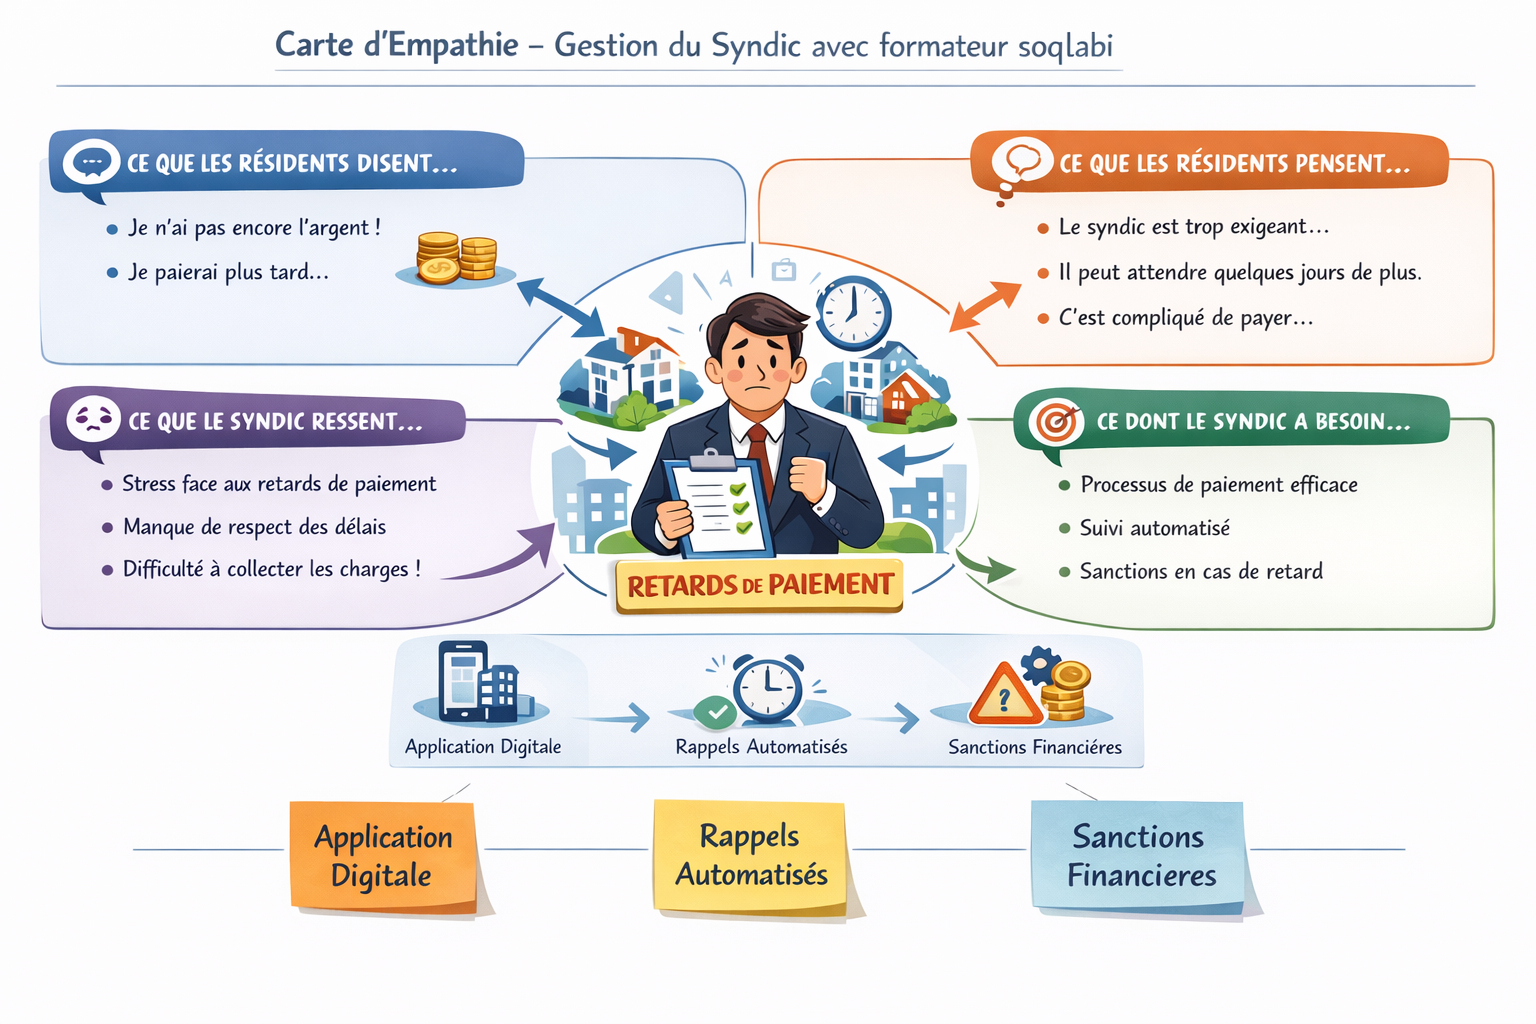
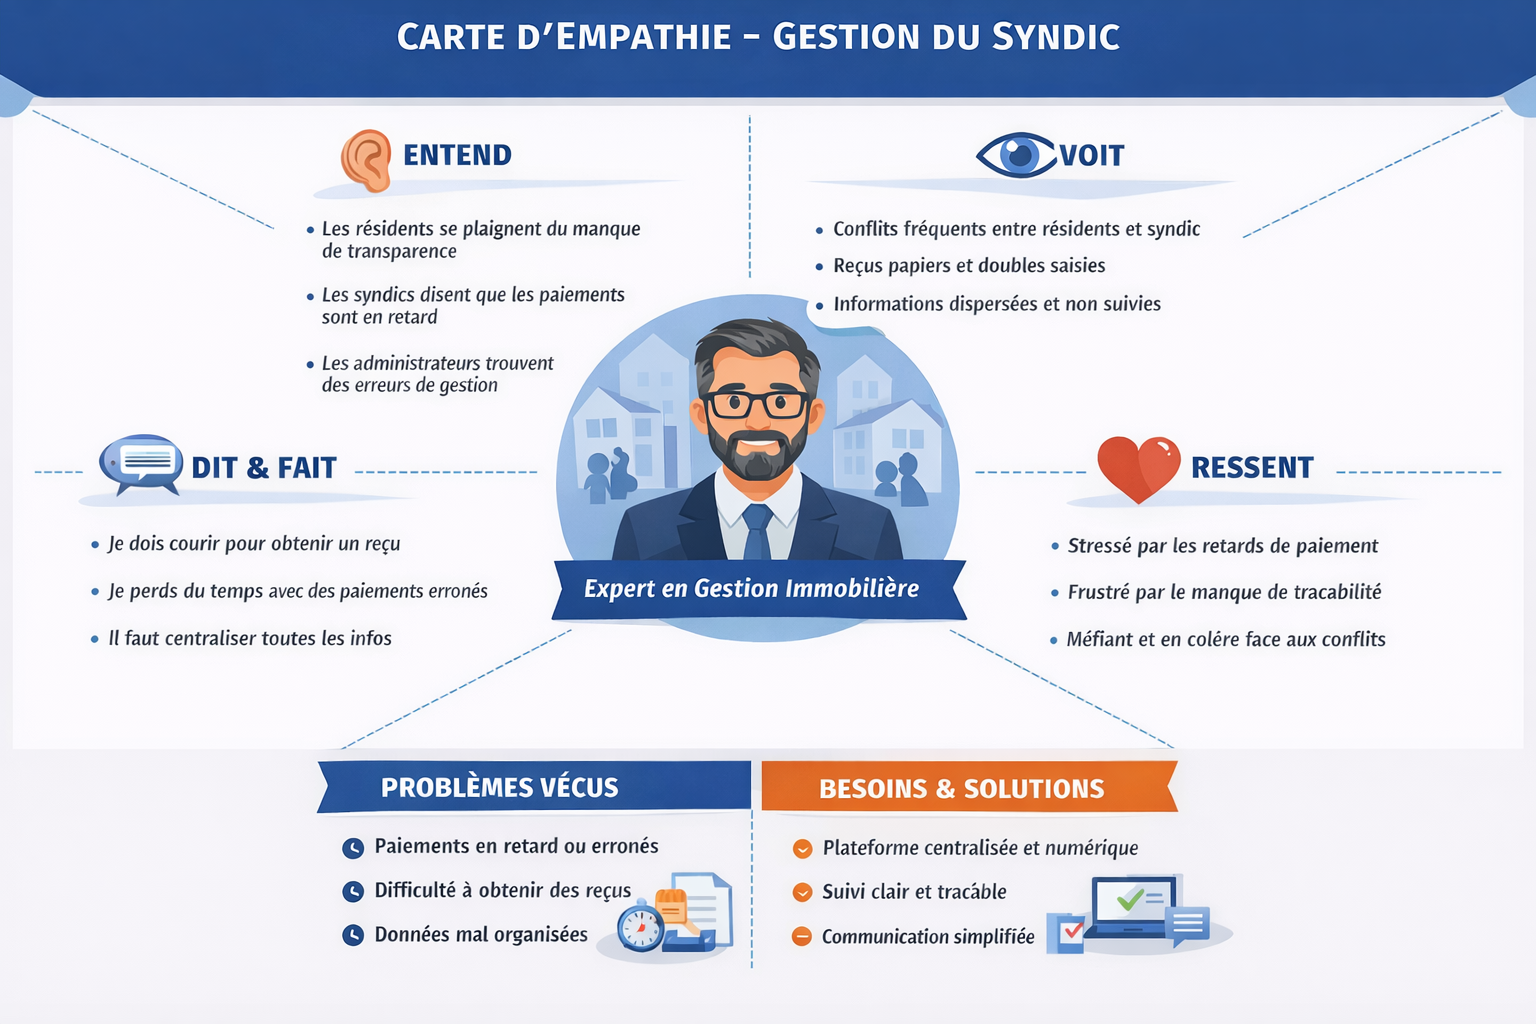
add use case

diff --git a/analyse/Empathie/Compte rendu formateur soqlabi.md b/analyse/Empathie/Compte rendu formateur soqlabi.md
@@ -1,0 +1,36 @@
+# Empathie – Gestion du Syndic (Consultation avec expert métier)
+
+**Date de l’entretien : 23/01/2026**  
+**Lieu : Immeuble “Résidence Al Amal”, Tanger**  
+**Consulté : Formateur soqlabi – expert métier en gestion immobilière**
+
+## Contexte
+Lors de l’entretien avec le Formateur soqlabi, nous avons recueilli ses retours sur les problèmes réels rencontrés dans la gestion des immeubles et le rôle du syndic, ainsi que des exemples concrets vécus par les résidents et syndics.
+
+## Constats
+- Même avec un petit nombre de résidents, des conflits peuvent apparaître.
+- Dans un immeuble avec plusieurs résidents, les problèmes sont plus fréquents.
+- L’État a mis en place la fonction de syndic pour organiser la gestion et limiter les conflits.
+- Difficultés fréquentes observées dans la pratique :
+  - Retards ou refus de paiement des charges par certains résidents
+  - Résidents absents ou à l’étranger qui ne suivent pas leurs paiements
+  - Manque de transparence dans la répartition des charges
+  - Conflits entre syndic et résidents liés aux décisions ou aux accusations de mauvaise gestion
+
+## Problèmes vécus (exemples concrets)
+- Le syndic a raconté qu’il reçoit souvent des paiements en retard ou contradictoires, ce qui crée de la confusion et du stress dans la gestion quotidienne.
+- Un résident a expliqué qu’il devait se déplacer plusieurs fois pour obtenir un reçu ou un relevé, ce qui est frustrant et chronophage.
+- L’administrateur a mentionné que certains syndics précédents ont saisi des informations incohérentes, entraînant des doublons et des erreurs dans le suivi des paiements.
+
+## Organisation proposée
+- Un seul syndic est responsable par immeuble à un moment donné.
+- En cas de départ du syndic, un autre peut le remplacer (remplacement, pas coexistence).
+- Les informations de l’immeuble sont saisies une seule fois par le premier syndic.
+- Les syndics suivants saisissent uniquement leurs informations personnelles.
+- Un administrateur général supervise la plateforme pour éviter les doublons et assurer la cohérence des données.
+
+## Résultat de l’empathie
+- Nécessité d’une gestion centralisée et structurée
+- Importance de la transparence et de la traçabilité
+- Réduction des conflits grâce à des informations claires et accessibles
+- Mise en place d’une application digitale pour faciliter la gestion du syndic et des paiements, améliorer la communication et la traçabilité

diff --git a/analyse/Empathie/Compte rendu Résidents.md b/analyse/Empathie/Compte rendu Résidents.md
@@ -1,0 +1,27 @@
+# Compte rendu – Résidents / Copropriétaires
+
+**Date de l’entretien : 28/02/2026**  
+**Lieu : Immeuble “Résidence Al Amal”, Tanger**  
+**Participants :**
+- Hassan Afaiz – résident, appartement 3B  
+- Hassnae Charifi – copropriétaire, appartement 2A  
+
+---
+
+## Problèmes vécus
+- Hassan ne sait jamais exactement combien il doit payer chaque mois à cause de rappels contradictoires.  
+- Hassnae doit se déplacer souvent pour obtenir des relevés de paiement, ce qui est chronophage.  
+- Frustration et méfiance envers le syndic dues à un manque de transparence et de traçabilité.  
+- Difficulté à signaler rapidement les problèmes ou réparations.  
+- Absence de notifications claires pour les échéances de paiement ou interventions prévues.  
+
+## Besoins exprimés
+- Accès à une plateforme centralisée où chaque résident peut consulter ses paiements et l’historique complet des charges.  
+- Possibilité de signaler facilement des problèmes ou demandes de réparation au syndic ou à l’administrateur.  
+- Notifications claires et automatiques pour les paiements et interventions à venir.  
+- Accès à toutes les informations concernant l’immeuble (réunions, décisions, interventions réalisées).  
+
+## Remarques supplémentaires
+- Les résidents aimeraient pouvoir consulter les informations même à distance via une application mobile.  
+- Souhaitent une interface simple et intuitive, avec des instructions claires pour les paiements et signalements.  
+- La possibilité de suivre les décisions prises lors des assemblées générales en ligne serait un plus.  

diff --git a/analyse/Empathie/Compte rendu Syndic.md b/analyse/Empathie/Compte rendu Syndic.md
@@ -1,0 +1,26 @@
+# Compte rendu – Syndic
+
+**Date de l’entretien : 27/02/2026**  
+**Lieu : Immeuble “Résidence Al Amal”, Tanger**  
+**Participant : Monsieur Youssef El Khadir – Syndic actuel, appartement 1C**  
+
+---
+
+## Problèmes vécus
+- Certains résidents ne payent pas leurs charges à temps ou refusent de payer, ce qui complique la gestion financière.  
+- Conflits fréquents entre voisins concernant la répartition des charges ou l’utilisation des parties communes.  
+- Difficulté à conserver des preuves de paiement et à justifier les interventions effectuées.  
+- Perception négative de certains résidents qui accusent le syndic d’incompétence ou de mauvaise gestion.  
+- Gestion manuelle des données qui prend beaucoup de temps et entraîne des erreurs.
+
+## Besoins exprimés
+- Une plateforme centralisée pour suivre les paiements et interventions.  
+- Possibilité d’émettre automatiquement des reçus et preuves de paiement.  
+- Gestion claire et historique de tous les paiements et interventions.  
+- Notifications automatiques pour les paiements en retard et les interventions planifiées.  
+- Possibilité de communiquer facilement avec les résidents via la plateforme.
+
+## Remarques supplémentaires
+- Le syndic souhaite que la plateforme puisse générer des rapports financiers pour la comptabilité et les assemblées générales.  
+- Souhaite également un module de rappel automatique pour les résidents afin de réduire les conflits liés aux paiements.  
+- La plateforme doit être intuitive, facile à utiliser et sécurisée pour protéger les données personnelles.  

diff --git a/analyse/Empathie/Compte rendu Administrateur.md b/analyse/Empathie/Compte rendu Administrateur.md
@@ -1,0 +1,26 @@
+# Compte rendu – Administrateur
+
+**Date de l’entretien : 28/02/2026**  
+**Lieu : Immeuble “Résidence Al Amal”, Tanger**  
+**Participant : Mohamed Rifi – Administrateur de la plateforme pour l’immeuble**  
+
+---
+
+## Problèmes vécus
+- Les informations saisies par différents syndics précédents étaient incohérentes et ont créé des doublons.  
+- Suivi compliqué des paiements et interventions pour tous les résidents.  
+- Difficulté à garantir la transparence pour tous les acteurs de l’immeuble.  
+- La communication avec les syndic et les résidents est parfois lente et inefficace.  
+- Gestion manuelle des données qui entraîne des erreurs et nécessite beaucoup de temps.  
+
+## Besoins exprimés
+- Une plateforme qui valide automatiquement les informations et empêche la duplication des immeubles.  
+- Suivi en temps réel de tous les paiements et demandes des résidents.  
+- Outils de reporting pour vérifier les interventions, paiements et historiques par immeuble.  
+- Interface sécurisée et facile à utiliser pour superviser tous les comptes utilisateurs.  
+- Notifications automatiques pour les irrégularités ou problèmes signalés.  
+
+## Remarques supplémentaires
+- Souhait d’avoir un journal d’activité pour suivre toutes les actions effectuées par les syndics et résidents.  
+- Besoin de modules d’analyse pour identifier rapidement les problèmes récurrents.  
+- La plateforme devrait permettre d’envoyer des communications officielles aux résidents directement depuis le compte administrateur.  
